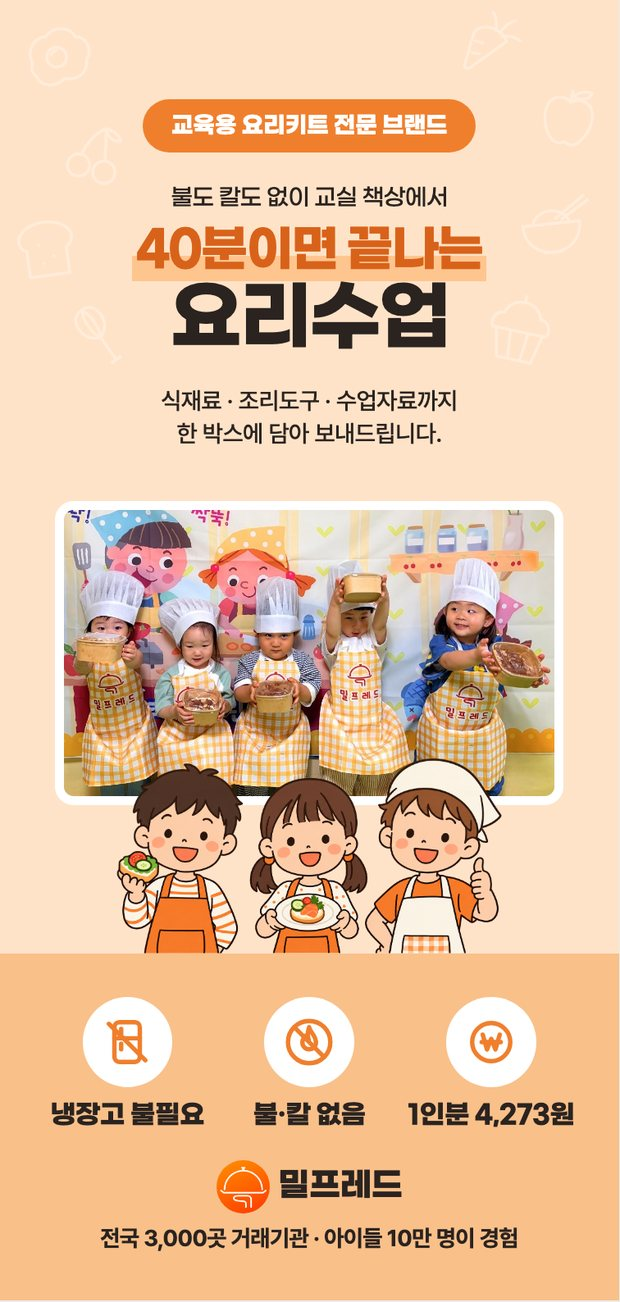
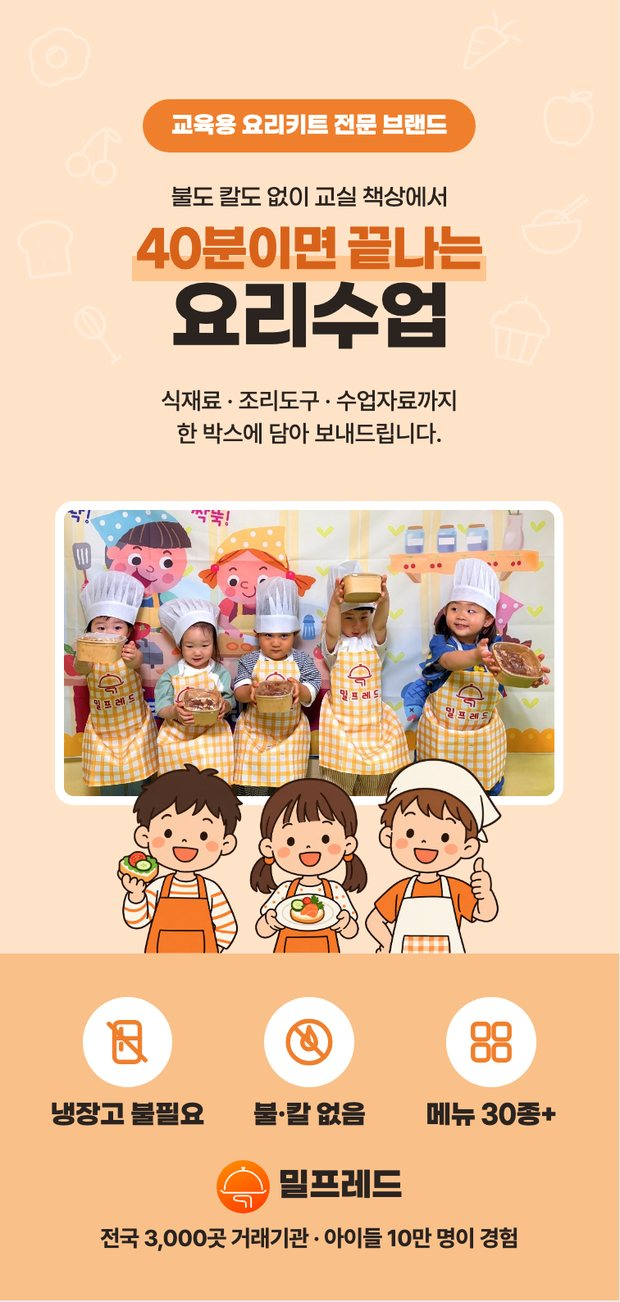
docs: 리플렛 09-18 변경(메뉴 30종+ · 메뉴명 Pretendard 600) 위키 반영
리플렛 소스 변경(git 밖 ~/Desktop/밀프레드/리플렛/v3):
- P1 표지 세 번째 칸 "1인분 4,273원" → "메뉴 30종+", 아이콘 동전→격자(#i-menu 신설)
- P4 메뉴명 GmarketSans Bold 700 → Pretendard 600 (4안 렌더 비교 후 이사님 선택 B)
- check.sh data-check=OK · measure_type.py TYPE-OK

위키: 9번 절 "09-18 추가 변경" 신설(변경 표 + 폰트 4안 비교본 + 바뀐 P4·P1),
after 이미지 갱신 및 lf-after-p4 / lf-menu-font-compare 추가, 허브 카드 한 줄 보강.
미해결로 남긴 것: "30종+"가 실제 보유 메뉴 수와 맞는지 확인 필요(구 원고는 "전체 40종").

Claude-Session: https://claude.ai/code/session_011WHUAcyjjD4YGWrgZnMWHy

Changed region(s): [[0.6435, 0.768, 0.9194, 0.8909]]

diff --git a/leaflet-v6-print-feedback.html b/leaflet-v6-print-feedback.html
@@ -133,6 +133,7 @@
   <a href="#s6">6. 확인 필요 4</a>
   <a href="#s7">7. 남은 순서</a>
   <a href="#s8">8. 적용 결과</a>
+  <a href="#s9">9. 09-18 변경</a>
 </div></nav>
 
 <main>
@@ -403,6 +404,42 @@
 <p><code>5layer-nolabel.png</code>(1200×1467, 배경 균일 #EAE8E9)에서 글자 영역을 배경색으로 덮었는데, <b>스티로폼 그림자까지 같이 지워져 계단 자국이 남았습니다.</b> 자동 bbox 탐지는 그림자의 어두운 픽셀을 글자로 오인합니다. 최종 방법은 <b>덮은 뒤 그림자 영역(x 700~886, y 1230~1325)만 원본에서 다시 붙이는 것</b>입니다(두 번 실패 후 확정). 결과 파일 = <code>5layer-nolabel-clean.png</code>.</p>
 
 <div class="warnbox"><b>출력은 로컬만 했습니다.</b> <code>out/</code>에 앞뒷면 300dpi PNG와 trim·bleed·디자이너용 PDF를 새로 만들었지만, <b>드라이브 <code>v6_디자이너_작업</code> 폴더는 갱신하지 않았습니다</b> — 확답 4건이 남은 중간본을 디자이너가 작업본으로 오해하지 않도록, 확답 반영 후 <code>./finish_v6.sh</code>로 한 번에 올립니다.</div>
+</section>
+
+<section id="s9"><h2>9. 09-18 추가 변경 — 표지 문구와 메뉴명 폰트</h2>
+<p class="sub">펜 피드백 11건과 별개로, 이사님이 따로 지시한 2건</p>
+
+<div class="tbl-wrap"><table>
+<thead><tr><th>대상</th><th>변경</th><th>이유</th></tr></thead>
+<tbody>
+<tr>
+  <td><b>P1 표지</b><br>세 번째 칸</td>
+  <td>"1인분 4,273원" → <b>"메뉴 30종+"</b><br>아이콘도 동전(₩) → <b>격자</b>(<code>#i-menu</code> 신설)</td>
+  <td>가격 대신 <b>가짓수</b>로 소구. 표지에서 단가 표기가 빠지면서 단가가 바뀌어도 리플렛을 다시 찍지 않아도 됩니다.</td>
+</tr>
+<tr>
+  <td><b>P4 메뉴명</b></td>
+  <td>GmarketSans Bold 700 → <b>Pretendard 600</b><br>크기 12.5px(9.4pt)는 유지</td>
+  <td>굵은 메뉴명이 사진과 같은 무게로 경쟁해 면이 답답했습니다. 얇게 내리면 <b>사진이 주인공으로 올라오고</b>, 제목(GmarketSans)과 서체가 갈려 위계도 생깁니다.</td>
+</tr>
+</tbody></table></div>
+
+<h3>메뉴명 폰트 — 4안을 실제로 렌더해 비교</h3>
+<div class="shot">
+  <img src="/assets/images/leaflet-v6/lf-menu-font-compare.jpg" alt="메뉴명 폰트 4안 비교 — 현재 Bold 700 / GmarketSans Medium 500 / Pretendard 600 / Pretendard 500">
+  <div class="shot-cap">왼쪽부터 현재(Bold 700) · A(GmarketSans Medium 500) · B(Pretendard 600, <b>채택</b>) · C(Pretendard 500). 말로 고르기 어려운 선택이라 네 가지를 모두 빌드해 비교했습니다.</div>
+</div>
+<p>C가 가장 시원하지만 메뉴명은 9.4pt여서 인쇄 조건에 따라 흐려질 수 있고, A는 제목과 같은 서체라 위계 대비가 약합니다. <b>B가 두 문제를 모두 피합니다.</b></p>
+
+<h3>바뀐 P4</h3>
+<div class="grid2">
+  <div class="kcard"><h4>P4 메뉴 — 메뉴명 Pretendard 600</h4>
+    <img src="/assets/images/leaflet-v6/lf-after-p4.jpg" alt="메뉴명 폰트를 바꾼 뒤의 P4 메뉴 면" style="width:100%;display:block;margin-top:8px;border-radius:8px;border:1px solid #F0E6DA"></div>
+  <div class="kcard"><h4>P1 표지 — 메뉴 30종+</h4>
+    <img src="/assets/images/leaflet-v6/lf-after-p1.jpg" alt="세 번째 칸을 메뉴 30종+로 바꾼 P1 표지" style="width:100%;display:block;margin-top:8px;border-radius:8px;border:1px solid #F0E6DA"></div>
+</div>
+
+<div class="warnbox"><b>확인 필요 — "30종+"가 실제 보유 메뉴 수와 맞습니까?</b> P4에 실린 대표 메뉴는 25종이고 전체는 QR로 안내합니다. 표지 숫자는 전체 보유 기준인데, 구 원고에는 "전체 40종"이라는 표현이 있었습니다. 30종+는 보수적인 표기라 안전하지만, 실제 수치를 알려주시면 맞추겠습니다.</div>
 </section>
 
 </main>

diff --git a/docs.html b/docs.html
@@ -442,7 +442,7 @@
       <span class="badge new">📄 신규 · 2026-09-17</span>
       <div class="ico">📄</div>
       <h4>리플렛 v6 인쇄본 펜 피드백 — 11건 판독과 개선방향</h4>
-      <p class="desc"><b>이사님이 앞·뒷면을 인쇄해 펜으로 표시한 11건을 확대 판독하고 면별 개선안으로 정리.</b> 09-15가 "글자가 작다"였다면 <b>이번은 전부 그림 얘기</b> — 아이콘·사진·라벨의 크기와 위계다. 앞면 5건(P2 관계도 아이콘을 사람·원형으로 · 선생님 박스 크게 / 행정실 박스 적게 · P1 하단 아이콘 확대와 직관적 픽토그램), 뒷면 6건(P4·P5 제목 색상통일 · 카테고리 라벨 확대 · 메뉴 썸네일 확대 · 참치마요 주먹밥 사진 삭제 · P6 "5중 보냉으로 48시간 냉기 지속" 문구 합치기). <b>인쇄본 위 표시 지도(번호 핀)</b> + 항목별 확대 사진 + 현재 CSS 수치를 함께 실었다. <span style="color:#C62828">충돌 = "이미지 크게"와 09-15 "메뉴 전부 싣기"는 한 면에 같이 못 간다</span>(메뉴 16~18개 압축 권고 3안 비교). <b>제약 = P6의 "5중 보냉"·"48시간"은 HTML이 아니라 사진에 박힌 글자</b>라 지우고 텍스트로 다시 얹어야 한다. <b>9/17 저녁 — 확답 없이 가능한 6건은 반영 완료</b>(선생님 아이콘·로고 원형화·왼쪽 박스 확대·P1 아이콘 14.5mm와 냉장고 픽토그램·카테고리 라벨 15px·P6 문구 합치기, data-check OK·TYPE-OK). 오른쪽 박스·썸네일·제목 색은 확답 4건(R-113~R-116) 대기.</p>
+      <p class="desc"><b>이사님이 앞·뒷면을 인쇄해 펜으로 표시한 11건을 확대 판독하고 면별 개선안으로 정리.</b> 09-15가 "글자가 작다"였다면 <b>이번은 전부 그림 얘기</b> — 아이콘·사진·라벨의 크기와 위계다. 앞면 5건(P2 관계도 아이콘을 사람·원형으로 · 선생님 박스 크게 / 행정실 박스 적게 · P1 하단 아이콘 확대와 직관적 픽토그램), 뒷면 6건(P4·P5 제목 색상통일 · 카테고리 라벨 확대 · 메뉴 썸네일 확대 · 참치마요 주먹밥 사진 삭제 · P6 "5중 보냉으로 48시간 냉기 지속" 문구 합치기). <b>인쇄본 위 표시 지도(번호 핀)</b> + 항목별 확대 사진 + 현재 CSS 수치를 함께 실었다. <span style="color:#C62828">충돌 = "이미지 크게"와 09-15 "메뉴 전부 싣기"는 한 면에 같이 못 간다</span>(메뉴 16~18개 압축 권고 3안 비교). <b>제약 = P6의 "5중 보냉"·"48시간"은 HTML이 아니라 사진에 박힌 글자</b>라 지우고 텍스트로 다시 얹어야 한다. <b>9/17 저녁 — 확답 없이 가능한 6건은 반영 완료</b>(선생님 아이콘·로고 원형화·왼쪽 박스 확대·P1 아이콘 14.5mm와 냉장고 픽토그램·카테고리 라벨 15px·P6 문구 합치기, data-check OK·TYPE-OK). 오른쪽 박스·썸네일·제목 색은 확답 4건(R-113~R-116) 대기. <b>9/18 추가</b> — 표지 "1인분 4,273원" → <b>"메뉴 30종+"</b>(아이콘 동전→격자), P4 메뉴명 GmarketSans Bold 700 → <b>Pretendard 600</b>(4안 렌더 비교 후 선택).</p>
       <div class="meta"><span>제품 · 인쇄물 · 판독 11 + 결정 4</span><span class="arrow">→</span></div>
     </a>
     <a href="/box-product.html" class="doc-card cat-prd">
